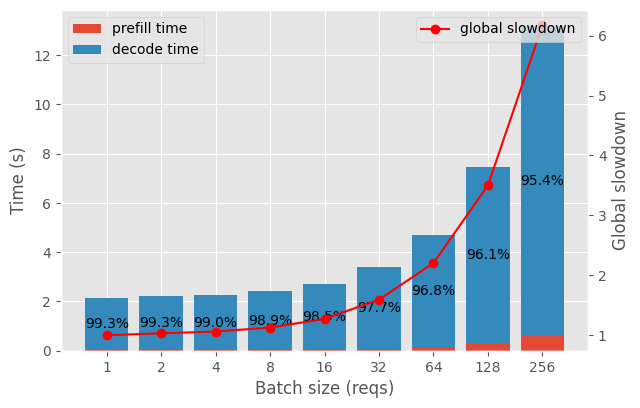
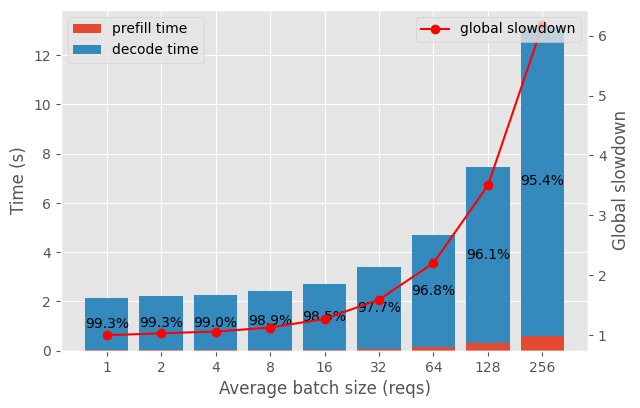
upd: updates prefill vs decode charts

Changed region(s): [[0.3438, 0.9412, 0.6875, 0.9706]]

diff --git a/benchmarks_simple/definitive_results/analysis/prefill_vs_decode/time_evolution/chart.py b/benchmarks_simple/definitive_results/analysis/prefill_vs_decode/time_evolution/chart.py
@@ -154,7 +154,7 @@ def plot_time_evolution(
     patches = axs.bar(decode_x, decode_y, bottom=prefill_y, label='decode time')
     axs.bar_label(patches, ['{0:.1f}%'.format(decode_y[index] / (prefill_y[index] + decode_y[index]) * 100) for index in range(len(prefill_x))], label_type='center')
 
-    axs.set_xlabel('Batch size (reqs)')
+    axs.set_xlabel('Average batch size (reqs)')
     axs.set_ylabel('Time (s)')
     axs.legend(loc='upper left', fontsize=10)
 
